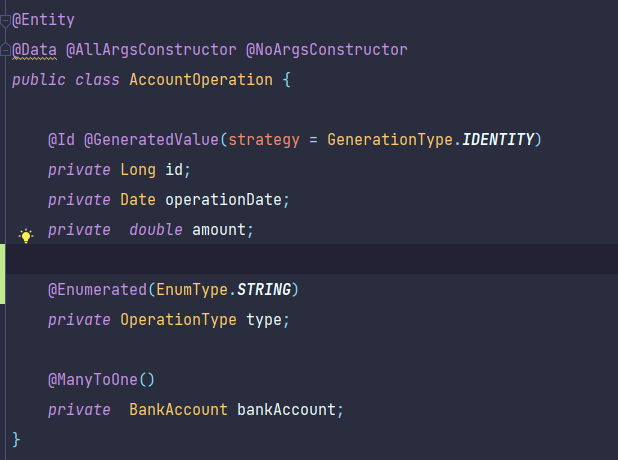
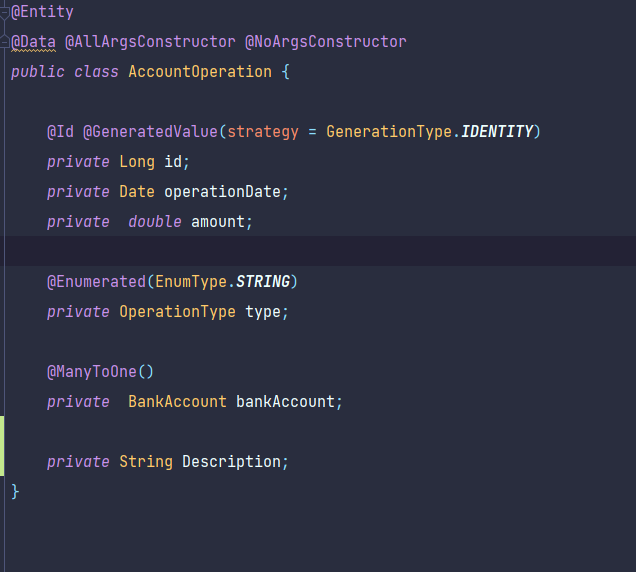
creation of Services and exceptions

diff --git a/Backend/src/main/java/com/digitalbancking/digitalbancking/services/BankAccountServiceImpl.java b/Backend/src/main/java/com/digitalbancking/digitalbancking/services/BankAccountServiceImpl.java
@@ -1,0 +1,137 @@
+package com.digitalbancking.digitalbancking.services;
+
+import com.digitalbancking.digitalbancking.entities.*;
+import com.digitalbancking.digitalbancking.enums.OperationType;
+import com.digitalbancking.digitalbancking.exceptions.BalanceNotSufficientException;
+import com.digitalbancking.digitalbancking.exceptions.BankAccountNotFoundException;
+import com.digitalbancking.digitalbancking.exceptions.CustomerNotFoundException;
+import com.digitalbancking.digitalbancking.repositories.AccountOperationRepository;
+import com.digitalbancking.digitalbancking.repositories.BankAccountRepository;
+import com.digitalbancking.digitalbancking.repositories.CustomerRepository;
+import lombok.AllArgsConstructor;
+import lombok.extern.slf4j.Slf4j;
+import org.springframework.stereotype.Service;
+import org.springframework.transaction.annotation.Transactional;
+
+import java.util.Date;
+import java.util.List;
+import java.util.UUID;
+
+@Service
+@Transactional
+@AllArgsConstructor
+@Slf4j
+public class BankAccountServiceImpl implements BankAccountService {
+    private CustomerRepository customerRepository;
+    private BankAccountRepository bankAccountRepository;
+    private AccountOperationRepository accountOperationRepository;
+
+    @Override
+    public Customer saveCustomer(Customer customer) {
+        Customer saveCystomer = customerRepository.save(customer);
+        log.info("saving new Customer");
+        return saveCystomer;
+    }
+
+    @Override
+    public CurrentAccount saveCurrentBankAccount(double initialBalance, double overDraft, String customerId) throws CustomerNotFoundException {
+        Customer customer=customerRepository.findById(customerId).orElse(null);
+        if(customer==null)
+            throw new CustomerNotFoundException("customer not fount");
+        CurrentAccount bankAccount=new CurrentAccount();
+
+        bankAccount.setId(UUID.randomUUID().toString());
+        bankAccount.setCreatedAt(new Date());
+        bankAccount.setBalance(initialBalance);
+        bankAccount.setCustomer(customer);
+        bankAccount.setOverDraft(overDraft);
+        CurrentAccount saveBankAccount= bankAccountRepository.save(bankAccount);
+        log.info("saving new Current Bank Account");
+        return saveBankAccount;
+    }
+
+    @Override
+    public SavingAccount saveSavingBankAccount(double initialBalance, double interestRate, String customerId) throws CustomerNotFoundException {
+        Customer customer=customerRepository.findById(customerId).orElse(null);
+        if(customer==null)
+            throw new CustomerNotFoundException("customer not fount");
+        SavingAccount bankAccount=new SavingAccount();
+
+        bankAccount.setId(UUID.randomUUID().toString());
+        bankAccount.setCreatedAt(new Date());
+        bankAccount.setBalance(initialBalance);
+        bankAccount.setCustomer(customer);
+        bankAccount.setInterestRate(interestRate);
+        SavingAccount saveBankAccount= bankAccountRepository.save(bankAccount);
+        log.info("saving new Saving Bank Account");
+
+        return saveBankAccount;
+    }
+
+
+    @Override
+    public List<Customer> listCustomers() {
+        log.info("get all Customers");
+        return customerRepository.findAll();
+    }
+
+    @Override
+    public List<BankAccount> listBankAccount() {
+        log.info("get all Bank Account");
+        return bankAccountRepository.findAll();
+    }
+
+    @Override
+    public BankAccount getBankAccount(String accountId) throws BankAccountNotFoundException {
+        BankAccount bankAccount = bankAccountRepository.findById(accountId).orElseThrow(() -> new BankAccountNotFoundException("backAccount not found"));
+        log.info("get the Bank Account "+accountId);
+        return bankAccount;
+    }
+
+    @Override
+    public void debit(String accountId, double amount, String description) throws BankAccountNotFoundException, BalanceNotSufficientException {
+        BankAccount bankAccount=getBankAccount(accountId);
+        if(bankAccount.getBalance()<amount)
+            throw  new BalanceNotSufficientException("balance not sufficient");
+
+        AccountOperation accountOperation=new AccountOperation();
+        accountOperation.setType(OperationType.DEBIT);
+        accountOperation.setAmount(amount);
+        accountOperation.setOperationDate(new Date());
+        accountOperation.setDescription(description);
+        accountOperation.setBankAccount(bankAccount);
+        accountOperationRepository.save(accountOperation);
+
+        bankAccount.setBalance(bankAccount.getBalance()-amount);
+        bankAccountRepository.save(bankAccount);
+
+        log.info("Account "+ accountId+ " ==> Debit :"+amount);
+
+    }
+
+    @Override
+    public void credit(String accountId, double amount, String description) throws BankAccountNotFoundException {
+        BankAccount bankAccount=getBankAccount(accountId);
+        AccountOperation accountOperation=new AccountOperation();
+        accountOperation.setType(OperationType.CREDIT);
+        accountOperation.setAmount(amount);
+        accountOperation.setOperationDate(new Date());
+        accountOperation.setDescription(description);
+        accountOperation.setBankAccount(bankAccount);
+        accountOperationRepository.save(accountOperation);
+
+        bankAccount.setBalance(bankAccount.getBalance()+amount);
+        bankAccountRepository.save(bankAccount);
+
+        log.info("Account "+ accountId+ " ==> Credit :"+amount);
+
+    }
+
+    @Override
+    public void transfer(String accountIdSource, String accountIdDestination, double amount) throws BankAccountNotFoundException, BalanceNotSufficientException {
+        debit(accountIdSource,amount,"Transfer to"+accountIdDestination);
+        credit(accountIdDestination,amount,"Transfer from "+accountIdSource);
+        log.info(amount+" transferred from "+ accountIdSource +" to "+ accountIdDestination);
+
+    }
+}

diff --git a/Backend/src/main/java/com/digitalbancking/digitalbancking/DigitalBanckingApplication.java b/Backend/src/main/java/com/digitalbancking/digitalbancking/DigitalBanckingApplication.java
@@ -1,14 +1,15 @@
 package com.digitalbancking.digitalbancking;
 
-import com.digitalbancking.digitalbancking.entities.AccountOperation;
-import com.digitalbancking.digitalbancking.entities.CurrentAccount;
-import com.digitalbancking.digitalbancking.entities.Customer;
-import com.digitalbancking.digitalbancking.entities.SavingAccount;
+import com.digitalbancking.digitalbancking.entities.*;
 import com.digitalbancking.digitalbancking.enums.AccountStatus;
 import com.digitalbancking.digitalbancking.enums.OperationType;
+import com.digitalbancking.digitalbancking.exceptions.BalanceNotSufficientException;
+import com.digitalbancking.digitalbancking.exceptions.BankAccountNotFoundException;
+import com.digitalbancking.digitalbancking.exceptions.CustomerNotFoundException;
 import com.digitalbancking.digitalbancking.repositories.AccountOperationRepository;
 import com.digitalbancking.digitalbancking.repositories.BankAccountRepository;
 import com.digitalbancking.digitalbancking.repositories.CustomerRepository;
+import com.digitalbancking.digitalbancking.services.BankAccountServiceImpl;
 import org.springframework.boot.CommandLineRunner;
 import org.springframework.boot.SpringApplication;
 import org.springframework.boot.autoconfigure.SpringBootApplication;
@@ -25,9 +26,38 @@ public class DigitalBanckingApplication {
 		SpringApplication.run(DigitalBanckingApplication.class, args);
 	}
 
-
 	@Bean
-	CommandLineRunner commandLineRunner(CustomerRepository customerRepository,
+	CommandLineRunner commandLineRunnerForTestServices(BankAccountServiceImpl bankAccountService){
+		return args -> {
+
+			Stream.of("hassan","mahdi","ayoub").forEach(name -> {
+				Customer customer=new Customer();
+				customer.setId(UUID.randomUUID().toString());
+				customer.setName(name);
+				customer.setEmail(name+"@gmaim.com");
+				bankAccountService.saveCustomer(customer);
+			});
+
+			try {
+				for (Customer customer : bankAccountService.listCustomers()) {
+					bankAccountService.saveCurrentBankAccount(Math.random()*9000,90000,customer.getId());
+					bankAccountService.saveSavingBankAccount(Math.random()*2000,5.5,customer.getId());
+				}
+
+				for (BankAccount bankAccount : bankAccountService.listBankAccount()) {
+					for (int i = 0; i < 10; i++) {
+							bankAccountService.credit(bankAccount.getId(),10000+2000*Math.random(),"Credit");
+							bankAccountService.debit(bankAccount.getId(),1000*Math.random(),"Debit");
+					}
+				}
+			}catch (CustomerNotFoundException | BankAccountNotFoundException | BalanceNotSufficientException e){
+				e.printStackTrace();
+			}
+		};
+	}
+
+	//@Bean
+	CommandLineRunner commandLineRunnerForTestRepositories(CustomerRepository customerRepository,
 										BankAccountRepository bankAccountRepository,
 										AccountOperationRepository accountOperationRepository){
 		return args -> {

diff --git a/Backend/src/main/java/com/digitalbancking/digitalbancking/services/BankAccountService.java b/Backend/src/main/java/com/digitalbancking/digitalbancking/services/BankAccountService.java
@@ -1,0 +1,26 @@
+package com.digitalbancking.digitalbancking.services;
+
+import com.digitalbancking.digitalbancking.entities.BankAccount;
+import com.digitalbancking.digitalbancking.entities.CurrentAccount;
+import com.digitalbancking.digitalbancking.entities.Customer;
+import com.digitalbancking.digitalbancking.entities.SavingAccount;
+import com.digitalbancking.digitalbancking.exceptions.BalanceNotSufficientException;
+import com.digitalbancking.digitalbancking.exceptions.BankAccountNotFoundException;
+import com.digitalbancking.digitalbancking.exceptions.CustomerNotFoundException;
+
+import java.util.List;
+
+public interface BankAccountService {
+    Customer saveCustomer(Customer customer);
+    CurrentAccount saveCurrentBankAccount(double initialBalance, double overDraft, String customerId) throws CustomerNotFoundException;
+    SavingAccount saveSavingBankAccount(double initialBalance, double interestRate, String customerId) throws CustomerNotFoundException;
+    List<Customer> listCustomers();
+    List<BankAccount> listBankAccount();
+    BankAccount getBankAccount(String accountId) throws BankAccountNotFoundException;
+    void  debit(String accountId,double amount,String description) throws BankAccountNotFoundException, BalanceNotSufficientException;
+    void  credit(String accountId,double amount,String description) throws BankAccountNotFoundException;
+    void  transfer(String accountIdSource, String accountIdDestination,double amount) throws BankAccountNotFoundException, BalanceNotSufficientException;
+
+
+
+}

diff --git a/Backend/src/main/java/com/digitalbancking/digitalbancking/exceptions/BalanceNotSufficientException.java b/Backend/src/main/java/com/digitalbancking/digitalbancking/exceptions/BalanceNotSufficientException.java
@@ -1,0 +1,7 @@
+package com.digitalbancking.digitalbancking.exceptions;
+
+public class BalanceNotSufficientException extends Exception {
+    public BalanceNotSufficientException(String s) {
+        super(s);
+    }
+}

diff --git a/Backend/src/main/java/com/digitalbancking/digitalbancking/exceptions/BankAccountNotFoundException.java b/Backend/src/main/java/com/digitalbancking/digitalbancking/exceptions/BankAccountNotFoundException.java
@@ -1,0 +1,7 @@
+package com.digitalbancking.digitalbancking.exceptions;
+
+public class BankAccountNotFoundException extends Exception {
+    public BankAccountNotFoundException(String s) {
+        super(s);
+    }
+}

diff --git a/Backend/src/main/java/com/digitalbancking/digitalbancking/exceptions/CustomerNotFoundException.java b/Backend/src/main/java/com/digitalbancking/digitalbancking/exceptions/CustomerNotFoundException.java
@@ -1,0 +1,7 @@
+package com.digitalbancking.digitalbancking.exceptions;
+
+public class CustomerNotFoundException extends Exception {
+    public CustomerNotFoundException(String s) {
+        super(s);
+    }
+}

diff --git a/Backend/src/main/java/com/digitalbancking/digitalbancking/entities/AccountOperation.java b/Backend/src/main/java/com/digitalbancking/digitalbancking/entities/AccountOperation.java
@@ -22,4 +22,6 @@ public class AccountOperation {
 
     @ManyToOne()
     private  BankAccount bankAccount;
+
+    private String Description;
 }

diff --git a/Backend/readme.md b/Backend/readme.md
@@ -67,7 +67,7 @@ package :(`src/main/java/com/digitalbancking/digitalbancking/repositories`)
 - modifier le fichier : application.properties :
 ![img11.png](images/img_11.png)
 
-- ajouter les données : (`src/main/java/com/digitalbancking/digitalbancking/DigitalBanckingApplication.java`)
+- ajouter des données (fonction : commandLineRunnerForTestRepositories): (`src/main/java/com/digitalbancking/digitalbancking/DigitalBanckingApplication.java`)
   - customers:
     ![img12.png](images/img_12.png)
     ![img15.png](images/img_15.png)
@@ -79,4 +79,89 @@ package :(`src/main/java/com/digitalbancking/digitalbancking/repositories`)
   - operations :
     ![img14.png](images/img_14.png)
     ![img17.png](images/img_17.png)
+
+
+
+
+
+### création des Services :
+package :(`src/main/java/com/digitalbancking/digitalbancking/services`)
+
+1. création de l'interface bankAccountService et leur implementation (`src/main/java/com/digitalbancking/digitalbancking/services/BankAccountServiceImpl.java`) :
+
+    ![img18.png](images/img_18.png)
+    
+  - fonction saveCustomer :
+
+    ![img19.png](images/img_19.png)
+
+  - fonction saveCurrentBankAccount :
+
+    ![img20.png](images/img_20.png)
+
+  - fonction saveSavingBankAccount :
+
+    ![img21.png](images/img_21.png)
+
+  - fonction listCustomers :
+
+    ![img22.png](images/img_22.png)
+
+  - fonction listBankAccount :
+
+    ![img23.png](images/img_23.png)
+
+  - fonction getBankAccount :
+
+    ![img24.png](images/img_24.png)
+
+  - fonction debit :
+
+    ![img25.png](images/img_25.png)
+
+  - fonction credit :
+
+    ![img26.png](images/img_26.png)
+
+  - fonction transfer :
+
+    ![img27.png](images/img_27.png)
+
+
+
+### création des Exceptions :
+package :(`src/main/java/com/digitalbancking/digitalbancking/services`)
+
+  - BalanceNotSufficientException
+
+    ![img28.png](images/img_28.png)
+
+  - BankAccountNotFoundException
+
+    ![img29.png](images/img_29.png)
+
+  - CustomerNotFoundException
+
+    ![img30.png](images/img_30.png)
+
+
+
+### tester les Services :
+
+- ajouter des données (fonction : commandLineRunnerForTestServices) : (`src/main/java/com/digitalbancking/digitalbancking/DigitalBanckingApplication.java`)
+
+  ![img31.png](images/img_31.png)
+
+
+
+
+
+
+
+
+
+
+
+
+
 
